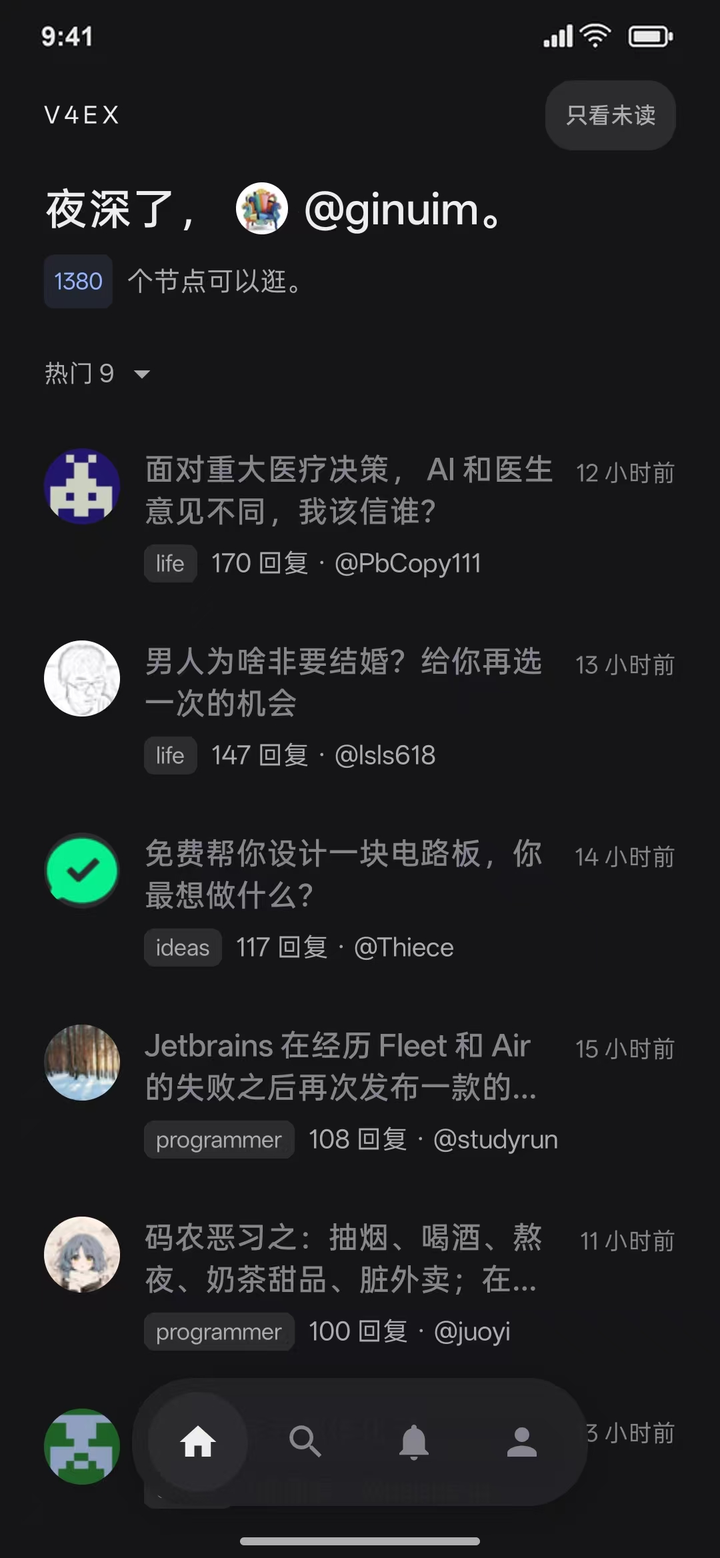
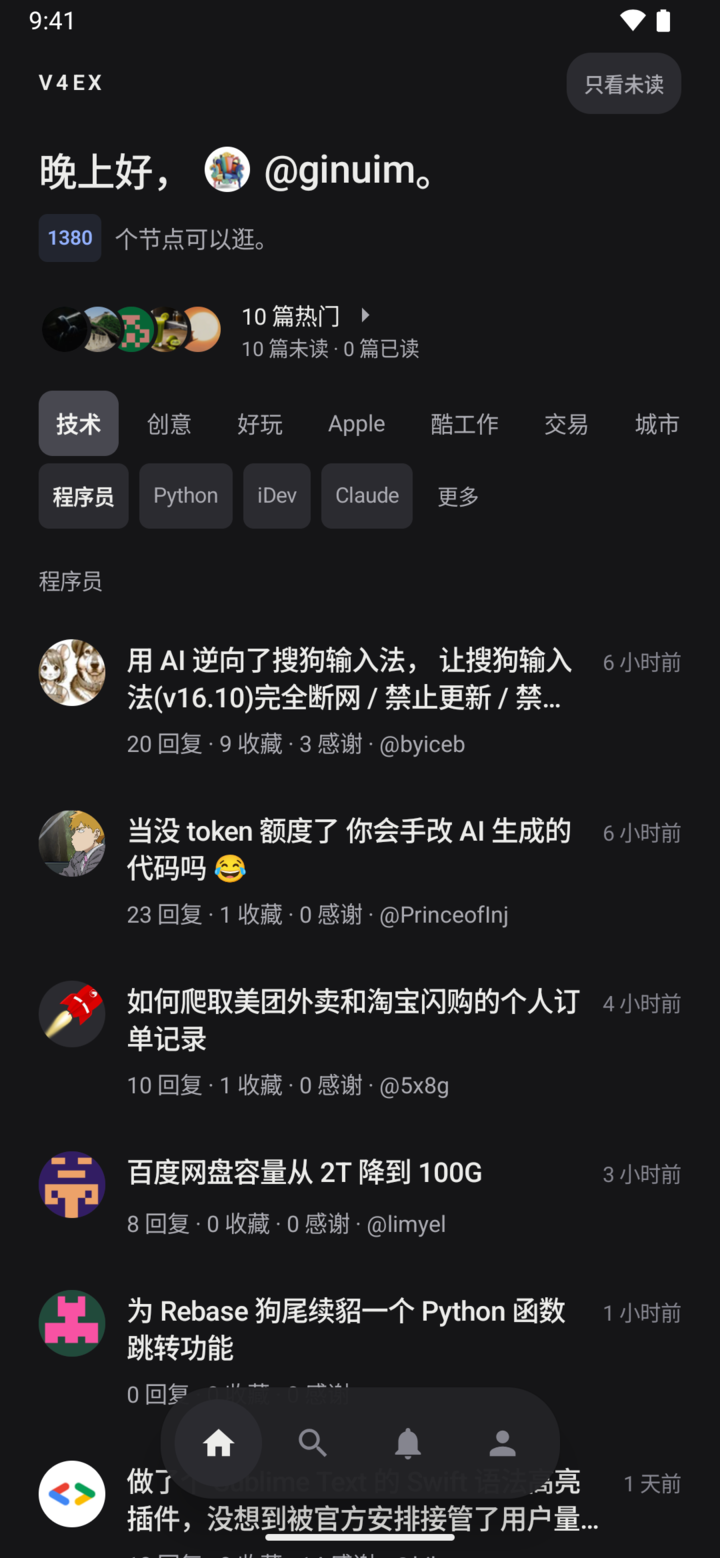
feat(privacy): add data policy and in-app access
Explain how credentials and local data are handled, and make the\npolicy available before users enter a token. Refresh the README\nscreenshots and prepare the next release.

diff --git a/app/src/main/java/com/v4ex/android/ui/PrivacyEntry.kt b/app/src/main/java/com/v4ex/android/ui/PrivacyEntry.kt
@@ -1,0 +1,26 @@
+package com.v4ex.android.ui
+
+import androidx.compose.foundation.rememberScrollState
+import androidx.compose.foundation.verticalScroll
+import androidx.compose.material3.*
+import androidx.compose.runtime.*
+import androidx.compose.ui.Modifier
+import androidx.compose.ui.platform.LocalContext
+
+@Composable
+fun PrivacyEntry(content: @Composable (onClick: () -> Unit) -> Unit = { onClick ->
+    TextButton(onClick = onClick) { Text("隐私政策与数据说明") }
+}) {
+    var visible by remember { mutableStateOf(false) }
+    val context = LocalContext.current
+    content { visible = true }
+    if (visible) {
+        val policy = remember { context.assets.open("privacy.txt").bufferedReader().use { it.readText() } }
+        AlertDialog(
+            onDismissRequest = { visible = false },
+            title = { Text("隐私政策") },
+            text = { MarkdownContent(text = policy, modifier = Modifier.verticalScroll(rememberScrollState())) },
+            confirmButton = { TextButton(onClick = { visible = false }) { Text("关闭") } },
+        )
+    }
+}

diff --git a/app/src/main/java/com/v4ex/android/ui/screens/MeScreen.kt b/app/src/main/java/com/v4ex/android/ui/screens/MeScreen.kt
@@ -164,6 +164,9 @@ fun MeScreen(
 
         Spacer(Modifier.height(26.dp))
         SectionLabel("操作")
+        com.v4ex.android.ui.PrivacyEntry { onClick ->
+            ActionRow("隐私政策与数据说明", onClick)
+        }
         ActionRow(if (hasToken) "更换令牌" else "填写令牌", onAuth)
         if (canCreateToken) {
             ActionRow("创建新令牌", onClick = {
@@ -180,7 +183,7 @@ fun MeScreen(
 
         Spacer(Modifier.height(26.dp))
         Text(
-            "V4EX ${com.v4ex.android.BuildConfig.VERSION_NAME}\n依照 V2EX 开放能力，普通用户可浏览阅读，PRO 用户还可发布内容。\n内容来自 V2EX，与官方无关",
+            "V4EX ${com.v4ex.android.BuildConfig.VERSION_NAME}\n依照 V2EX 开放能力，普通用户可浏览阅读，PRO 用户还可发布内容。\n内容来自 V2EX · V4EX 是独立第三方客户端",
             modifier = Modifier.padding(horizontal = 22.dp),
             fontSize = 12.sp,
             lineHeight = 18.sp,

diff --git a/app/src/main/java/com/v4ex/android/MainActivity.kt b/app/src/main/java/com/v4ex/android/MainActivity.kt
@@ -415,11 +415,12 @@ private fun TokenDialog(initial: String, onDismiss: () -> Unit, onSave: (String)
         text = {
             Column(Modifier.widthIn(min = 260.dp)) {
                 Text(
-                    "在 v2ex.com/settings/token 创建一个令牌，粘贴到下面。只保存在本机。",
+                    "在 v2ex.com/settings/token 创建令牌后粘贴到下面。V4EX 没有自建服务器，PAT 保存在设备上，仅用于向 V2EX 验证身份。",
                     fontSize = 13.sp,
                     lineHeight = 19.sp,
                     color = Ink.Secondary,
                 )
+                com.v4ex.android.ui.PrivacyEntry()
                 OutlinedTextField(
                     value = text,
                     onValueChange = { text = it },

diff --git a/PRIVACY.md b/PRIVACY.md
@@ -1,0 +1,27 @@
+# V4EX 隐私政策
+
+更新日期：2026 年 11 月 2 日
+
+V4EX 是第三方 V2EX Android 客户端，没有由 V4EX 开发者运营的后台服务器。本政策说明应用如何处理数据；V2EX、GitHub、图片托管方和其他第三方服务有各自的隐私政策。
+
+## 令牌和账户
+
+使用账户功能需要自行在 V2EX 创建个人访问令牌（PAT）。令牌保存在设备的应用数据中，不发送给 V4EX 开发者。使用需要认证的功能时，应用通过 HTTPS 将令牌发送给 V2EX API，用于验证身份。无需令牌也可浏览部分公开内容。
+
+令牌目前以应用 DataStore 数据保存，并未由应用单独加密。请保护设备、避免将令牌分享给他人；如怀疑泄露，请到 V2EX 撤销令牌并重新创建。可以在应用的「我的」页面清空令牌；清空本地令牌不等于在 V2EX 撤销令牌。
+
+## 本地数据与备份
+
+收藏、浏览历史、已读记录、设置和部分账户相关信息等保存在应用数据中。清除应用数据或卸载应用通常会删除设备上的应用数据。应用目前允许 Android 备份，具体备份或设备迁移行为取决于设备和系统设置，数据可能被保存到备份中或恢复到其他设备；删除应用不一定删除已有备份。
+
+本地收藏不会同步到 V2EX。通过应用发布的主题、回复等内容会提交给 V2EX，并由 V2EX 处理和保存。
+
+## 网络请求和第三方服务
+
+- 应用直接连接 V2EX 获取内容和执行用户请求的账户操作。V2EX 可按其政策处理请求信息及提交的内容。
+- 检查应用更新时会连接 GitHub；下载更新时也会连接 GitHub。
+- 内容中的图片可能来自第三方服务器，加载图片时相应服务器可能收到网络请求及 IP 地址。打开外部链接或分享内容时，所选应用或网站会按其自身政策处理数据。
+
+## 联系与变更
+
+如对本政策有疑问，可通过 [GitHub 仓库](https://github.com/ginuim/v4ex)提交 issue。功能或数据处理方式发生变化时，本政策会相应更新。
